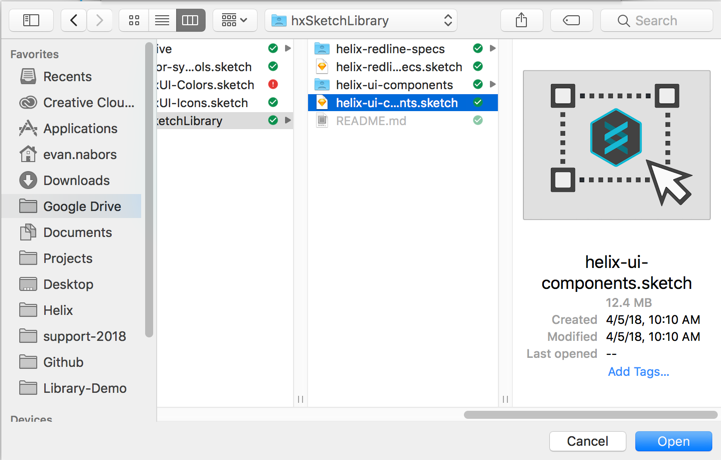
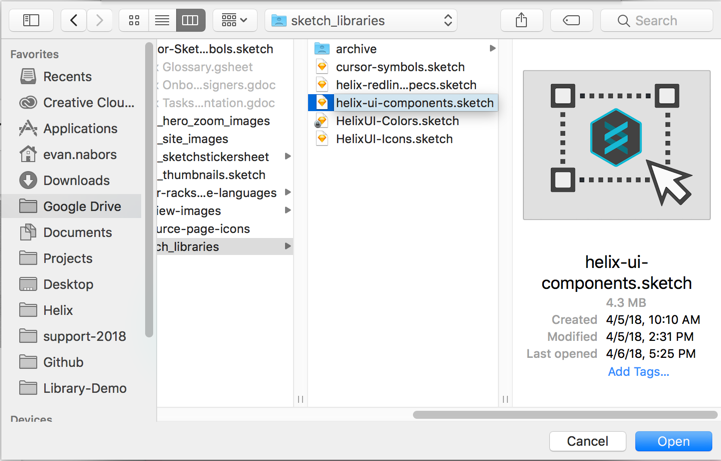
refactor(images): update library images and instructions to reflect correct file names

diff --git a/_docs/resources/sketch-library.md b/_docs/resources/sketch-library.md
@@ -23,7 +23,7 @@ benefit of this approach is that you automatically receive updates made to the
 library.
 
 2. **You can install the Sketch library from your local machine.** This approach
-involves downloading a copy of the library from the Helix website, saving it to
+involves downloading a copy of the library from Github, saving it to
 your local machine, and then loading the library into Sketch. The primary
 benefit of this approach is that it is easier to set up, but you do not
 automatically receive updates and must download the library each time there is
@@ -50,7 +50,7 @@ Drive.
 Before you begin:
 
 - Ensure that you have a Google Drive account. If you have a Gmail account, you
-have access to a Google Drive. For more information, see https://www.google.com/drive/
+have access to a Google Drive. For more information, see [Google Drive](https://www.google.com/drive/)
 
 - Install a licensed copy of [Sketch](http://www.sketchapp.com). If you do not have a copy of Sketch, email helix@rackspace.com to request a license.
 
@@ -170,7 +170,7 @@ Complete the following steps to add the Helix Sketch library into Sketch.
 2. On the **Preferences** dialog box, click **Libraries**, and then click **Add Library**.
 
 
-3. Click **Google Drive > hxSketchLibrary > helix-ui-components.sketch**.
+3. Click **Google Drive > sketch_libraries > helix-ui-components.sketch**.
 
 4. Click **Open**.
 
@@ -251,7 +251,7 @@ Complete the following steps to bring the Helix Sketch library into Sketch.
 
 2. On the **Preferences** dialog box, click **Libraries**, and then click **Add Library**.
 
-3. Locate the library on your local machine, and click **helix-library-test.sketch**.
+3. Locate the library on your local machine, and click **helix-ui-components.sketch**.
 
 4. Click **Open**.
 
